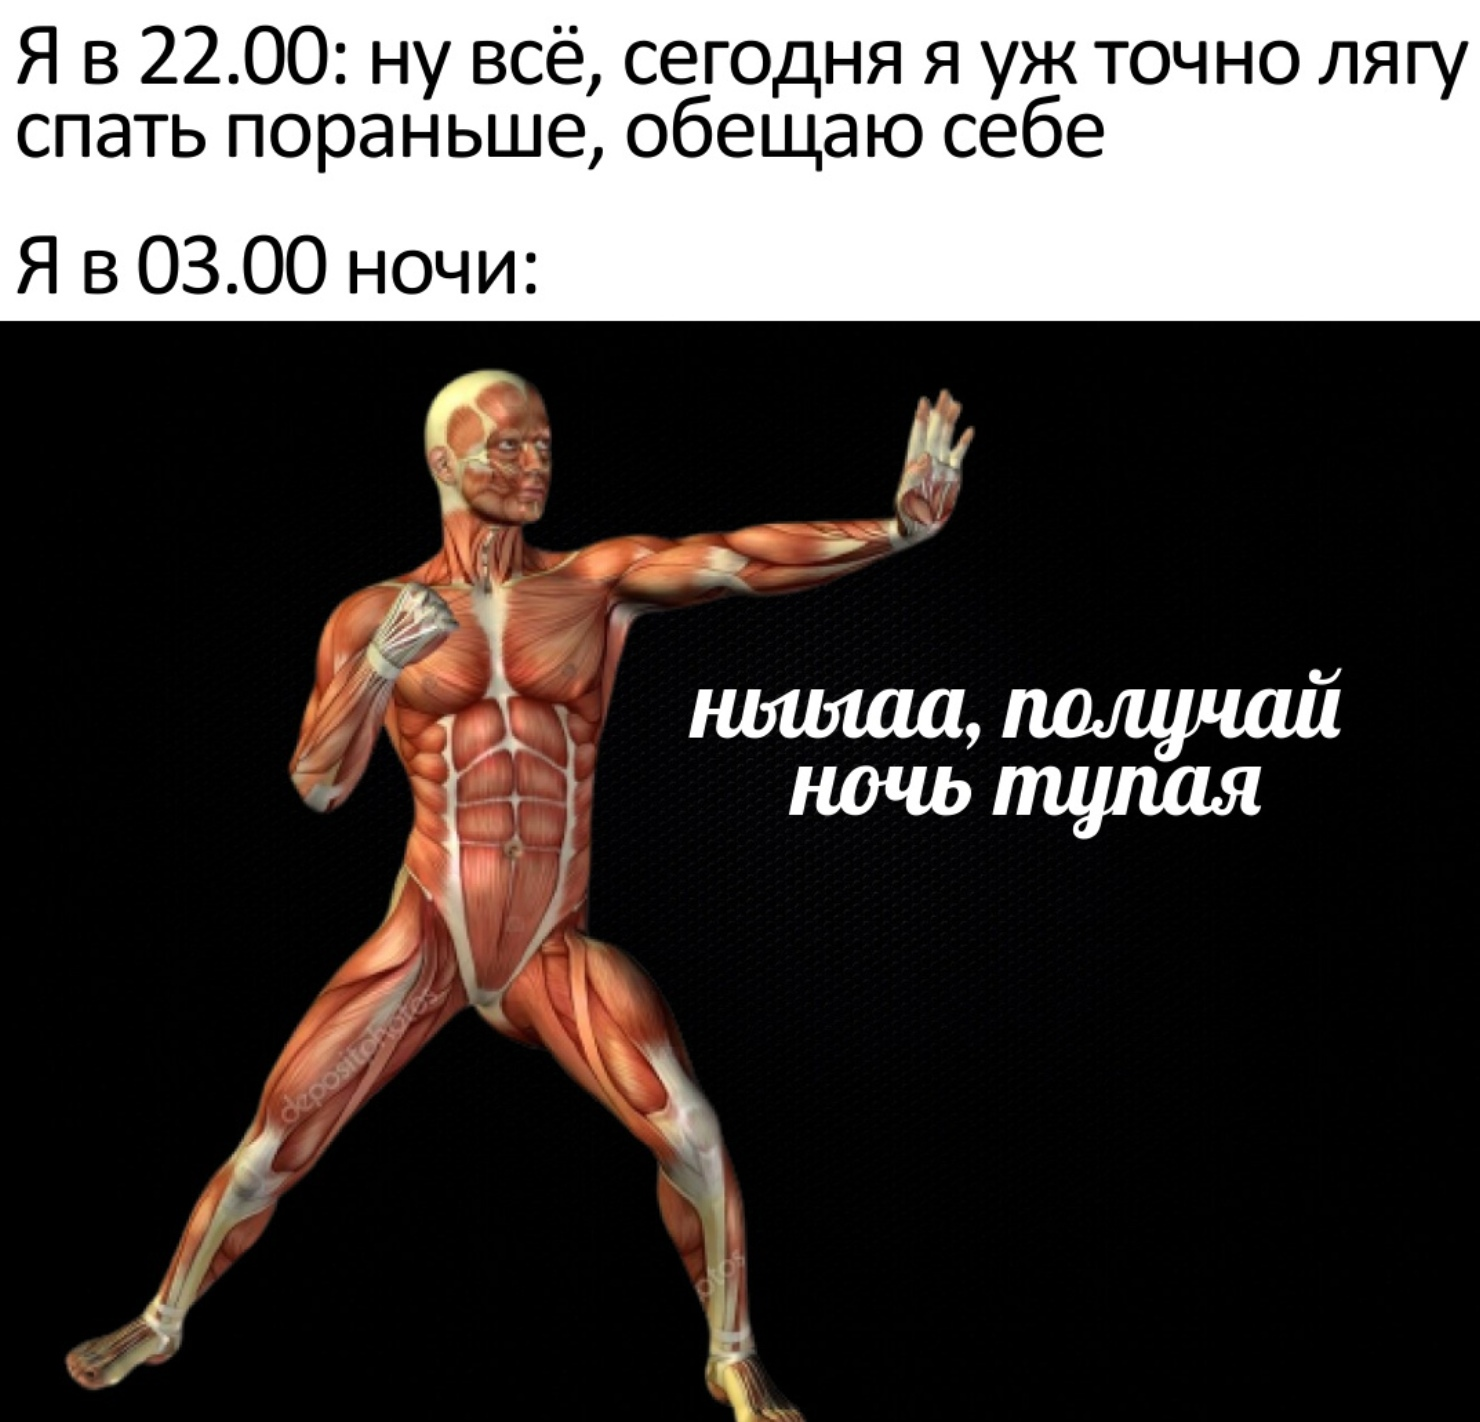
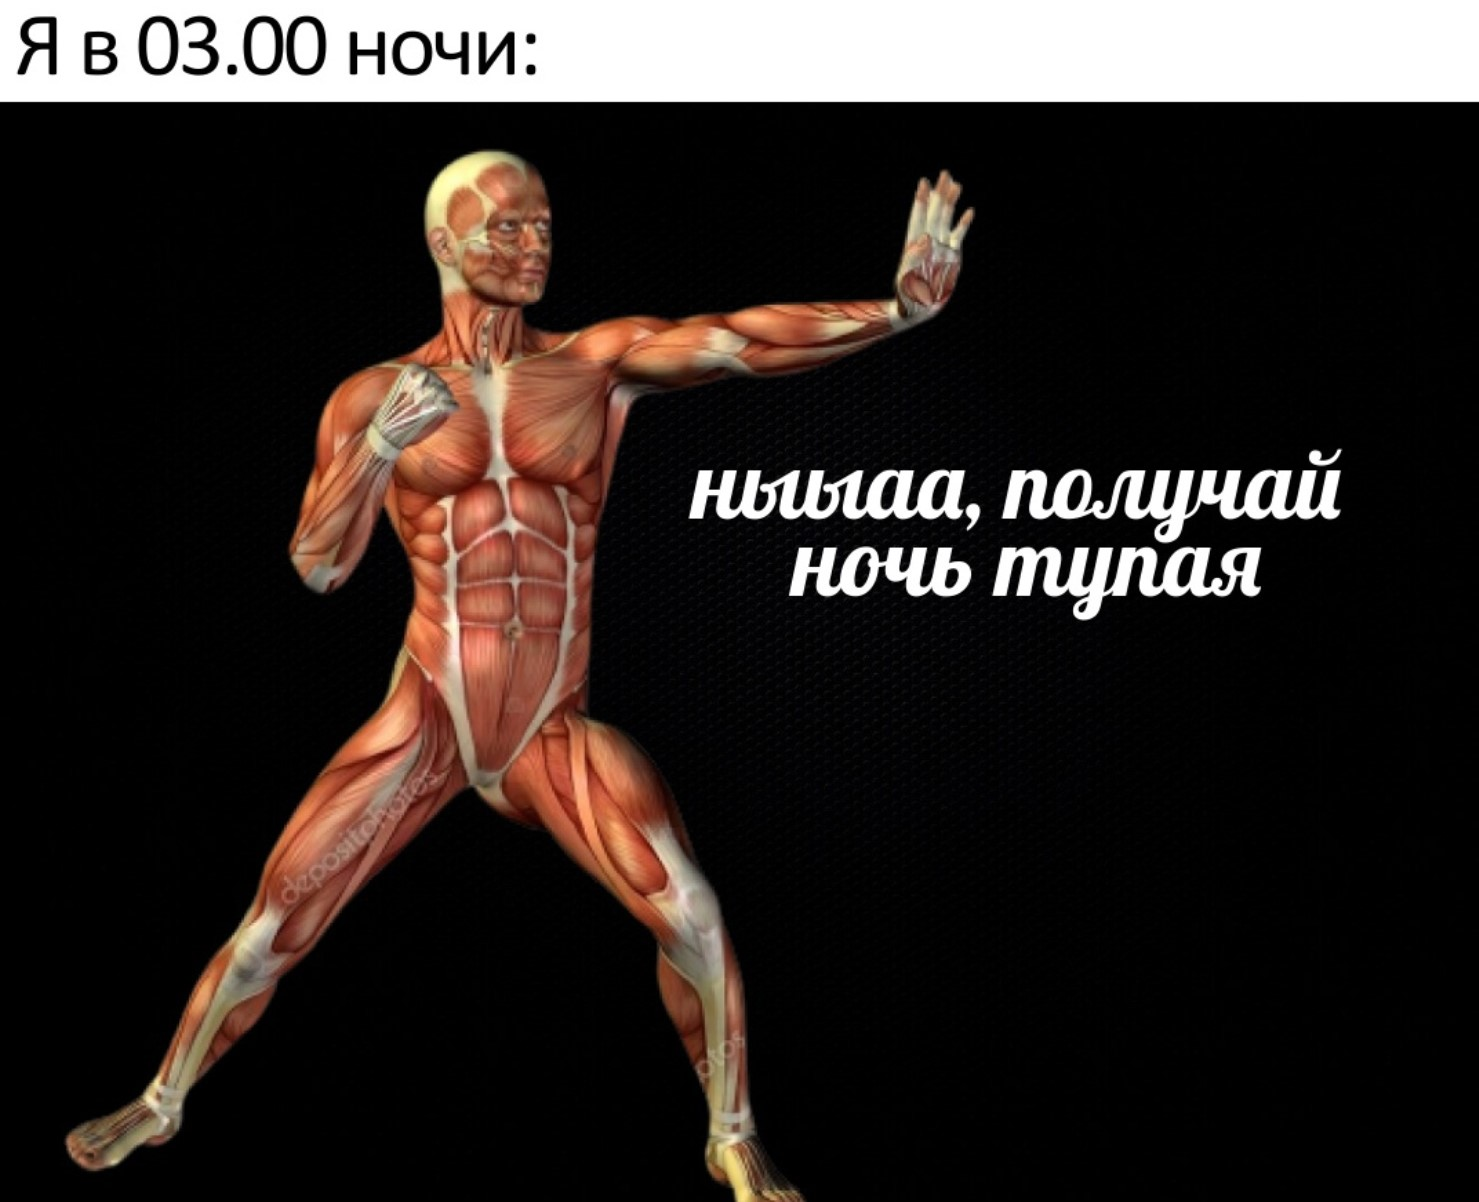
feat: add controles, delete text, reange stucture, use id indtead of classes 16.05 23:40

diff --git a/index.html b/index.html
@@ -8,51 +8,41 @@
     <title>Document</title>
 </head>
 <body>
-    <div class="wrapper">
-        <div class="slider">
-            <div class="slider-items">
-                <div class="item">
-                    <img src="assets/ilon.jpg" alt="ilon mem">
-                </div>
-                <div class="item">
-                    <img src="assets/night.jpg" alt="night mem">
-                </div>
-                <div class="item">
-                    <img src="assets/tests.jpg" alt="test mem">
-                </div>
-                <div class="item">
-                    <img src="assets/write.jpg" alt="write mem">
-                </div>
-            </div>
-            <div class="text-and-nav">
-                <div class="text">
-                    <div class="text-items">
-                        <div class="item">
-                            <p>ilon mem</p>
-                        </div>
-                        <div class="item">
-                            <p>night mem</p>
-                        </div>
-                        <div class="item">
-                            <p>test mem</p>
-                        </div>
-                        <div class="item">
-                            <p>write mem</p>
-                        </div>
+    <div id="slider">
+        <input type="radio" name="slider" id="slide1" checked>
+        <input type="radio" name="slider" id="slide2">
+        <input type="radio" name="slider" id="slide3">
+        <input type="radio" name="slider" id="slide4">
+        <div id="slides">
+            <div class="inner">
+                <div class="slide">
+                    <div class="slide-content">
+                        <img src="/assets/ilon.jpg" alt="">
                     </div>
                 </div>
-                <div class="slider-nav">
-                    <label for="mem1" class="slider-nav-item"></label>
-                    <label for="mem2" class="slider-nav-item"></label>
-                    <label for="mem3" class="slider-nav-item"></label>
-                    <label for="mem4" class="slider-nav-item"></label>
-                    <input type="radio" name="mem" id="mem1">
-                    <input type="radio" name="mem" id="mem2">
-                    <input type="radio" name="mem" id="mem3">
-                    <input type="radio" name="mem" id="mem4">
+                <div class="slide">
+                    <div class="slide-content">
+                        <img src="/assets/night.jpg" alt="">
+                    </div>
+                </div>
+                <div class="slide">
+                    <div class="slide-content">
+                        <img src="/assets/tests.jpg" alt="">
+                    </div>
+                </div>
+                <div class="slide">
+                    <div class="slide-content">
+                        <img src="/assets/write.jpg" alt="">
+                    </div>
                 </div>
             </div>
-        </div> 
-    </div>
+        </div>
+        <div id="controls">
+           <label for="slide1"></label>
+           <label for="slide2"></label>
+           <label for="slide3"></label>
+           <label for="slide4"></label>
+        </div>
+     </div>
 </body>
 </html>

diff --git a/style.css b/style.css
@@ -3,60 +3,91 @@
     margin: 0;
 }
 
-.wrapper{
+#slider {
+    margin: 0 auto;
+    width: 60%;
+ }
+
+ #slider input[type=radio] {
+    display: none;
+ }
+
+ #slider label {
+    cursor:pointer;
+ }
+
+ #slides {
     width: 100%;
-    height: 100vw;
-    display: flex;
-    justify-content: center;
-    align-items: center;
-}
-
-.slider{
     overflow: hidden;
-    max-width: 55%;
-    height:auto;
-}
-
-.slider-items{
-    display: flex;
+    background: rgb(13, 0, 255);
+ }
+ 
+ .inner {
+    transition: 1s ease;
     width: 400%;
-    height: auto;
-}
+    line-height: 0;
+ }
 
-.slider-items .item{
+ #slides .slide {
     width: 25%;
-    display: flex;
-    align-self: center;
-}
+    float:left;
+ }
 
-.slider-items .item img{
-    max-width: 100%;
-    height: auto;
-    
-}
-
-.text-and-nav{
-    display: flex;
-    width:100%;
-}
-.text{
-    overflow: hidden;
+ 
+ .slide-content img{
     width: 100%;
-    height:auto;
-}
+ }
 
-.text-items{
-    display: flex;
-    width: 400%;
-    height: auto;
-}
-.text-items .item{
-    width: 85%;
-}
+/*move*/
 
-.slider-nav{
-    width:15%;
-    display:flex;
-    justify-content: flex-end;
-    align-items: center;
-}
+ #slide1:checked ~ #slides .inner {
+    margin-left: 0;
+ }
+ #slide2:checked ~ #slides .inner {
+    margin-left: -100%;
+ }
+ #slide3:checked ~ #slides .inner {
+    margin-left: -200%;
+ }
+ #slide4:checked ~ #slides .inner {
+    margin-left: -300%;
+ }
+
+ 
+
+ #controls {
+    margin: 10px 0 0;
+    text-align: end;
+ }
+ #controls label {
+    display: inline-block;
+    width: 10px;
+    height: 10px;
+    border-radius:100%;
+    background: rgb(43, 0, 255);
+    margin: 0 10px;
+ }
+
+ #slide1:checked ~ #controls label:nth-child(1),
+ #slide2:checked ~ #controls label:nth-child(2),
+ #slide3:checked ~ #controls label:nth-child(3),
+ #slide4:checked ~ #controls label:nth-child(4) {
+    background: rgb(196, 0, 0);
+ }
+
+ @media screen and (max-width: 900px) {
+    #slide1:checked ~ #controls label:nth-child(2),
+    #slide2:checked ~ #controls label:nth-child(3),
+    #slide3:checked ~ #controls label:nth-child(4),
+    #slide4:checked ~ #controls label:nth-child(1),
+    #slide1:checked ~ #controls label:nth-last-child(2),
+    #slide2:checked ~ #controls label:nth-last-child(3),
+    #slide3:checked ~ #controls label:nth-last-child(4),
+    #slide4:checked ~ #controls label:nth-last-child(1) {
+       margin: 0;
+    }
+    #slides {
+       max-width: calc(100% - 140px);
+       margin: 0 auto;
+    }
+ }
